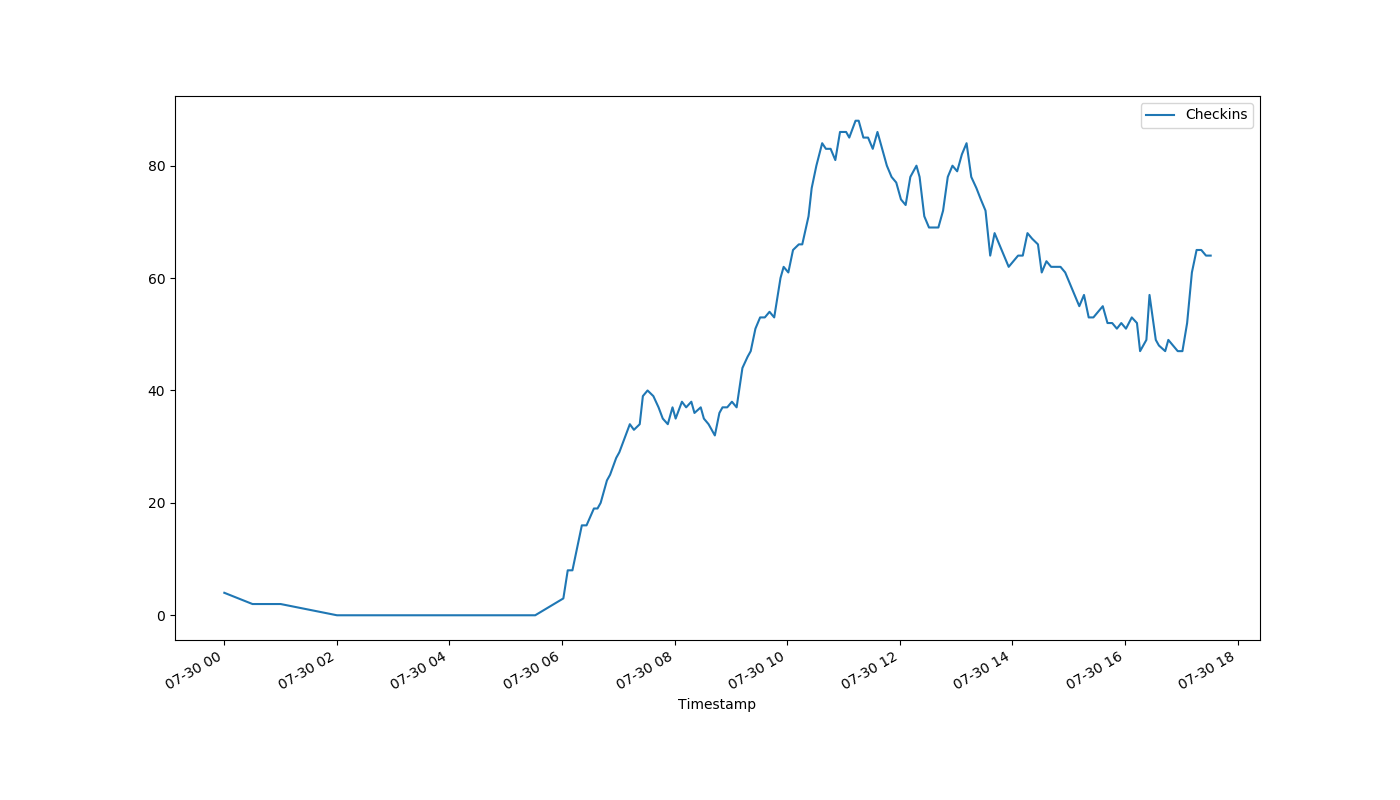
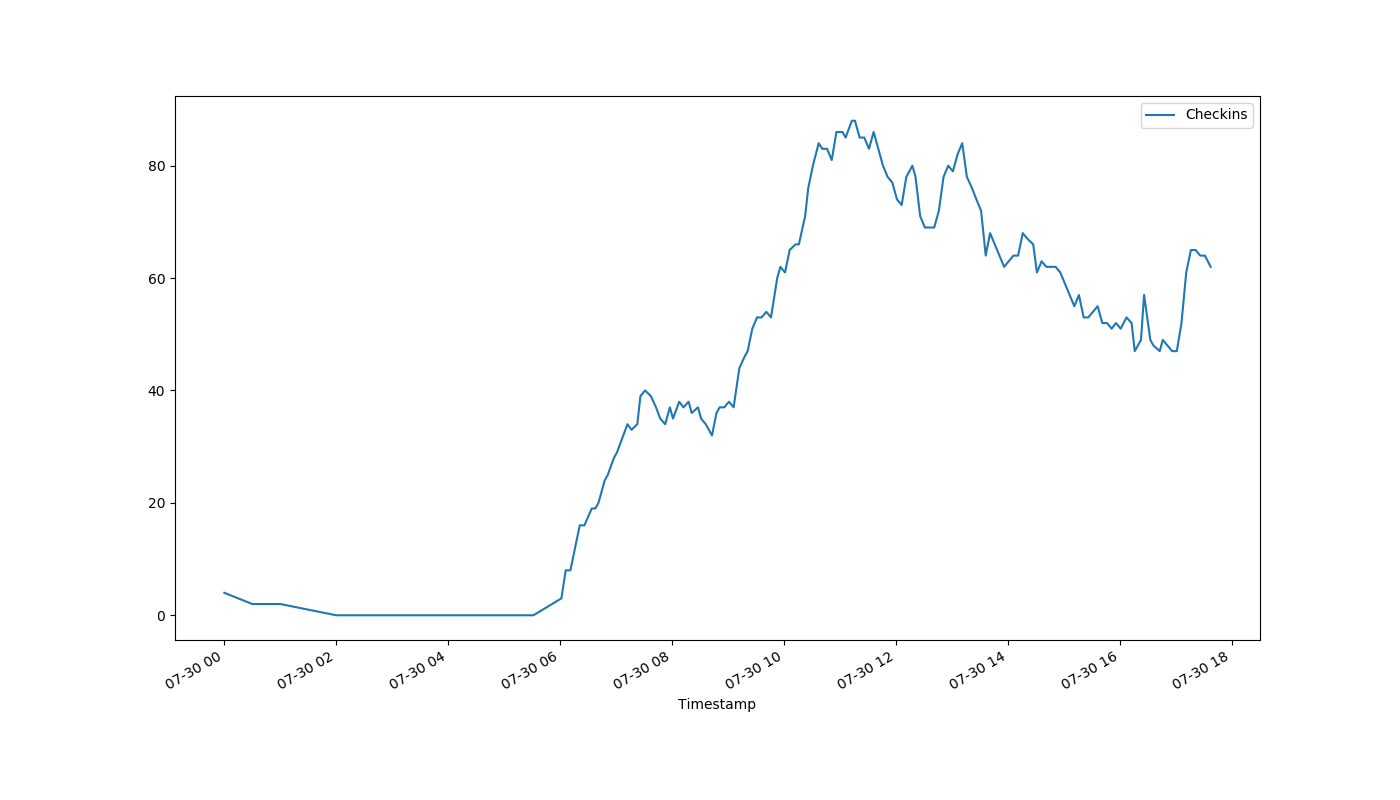
auto-Jul-30-17:39:01

diff --git a/index.html b/index.html
@@ -1,1 +1,1 @@
-<!DOCTYPE html><html><head><meta http-equiv="refresh" content="30"><link rel='stylesheet' href='holmcurrent.css'></head><body><p id='count'>64</p><div id='graph-wrap'><img id='graph' src='holmgraph-Jul-30.png'></div><p id='updated'>Last updated 17:32:03 / 17:31:17</p></body></html>
+<!DOCTYPE html><html><head><meta http-equiv="refresh" content="30"><link rel='stylesheet' href='holmcurrent.css'></head><body><p id='count'>62</p><div id='graph-wrap'><img id='graph' src='holmgraph-Jul-30.png'></div><p id='updated'>Last updated 17:38:03 / 17:37:29</p></body></html>
